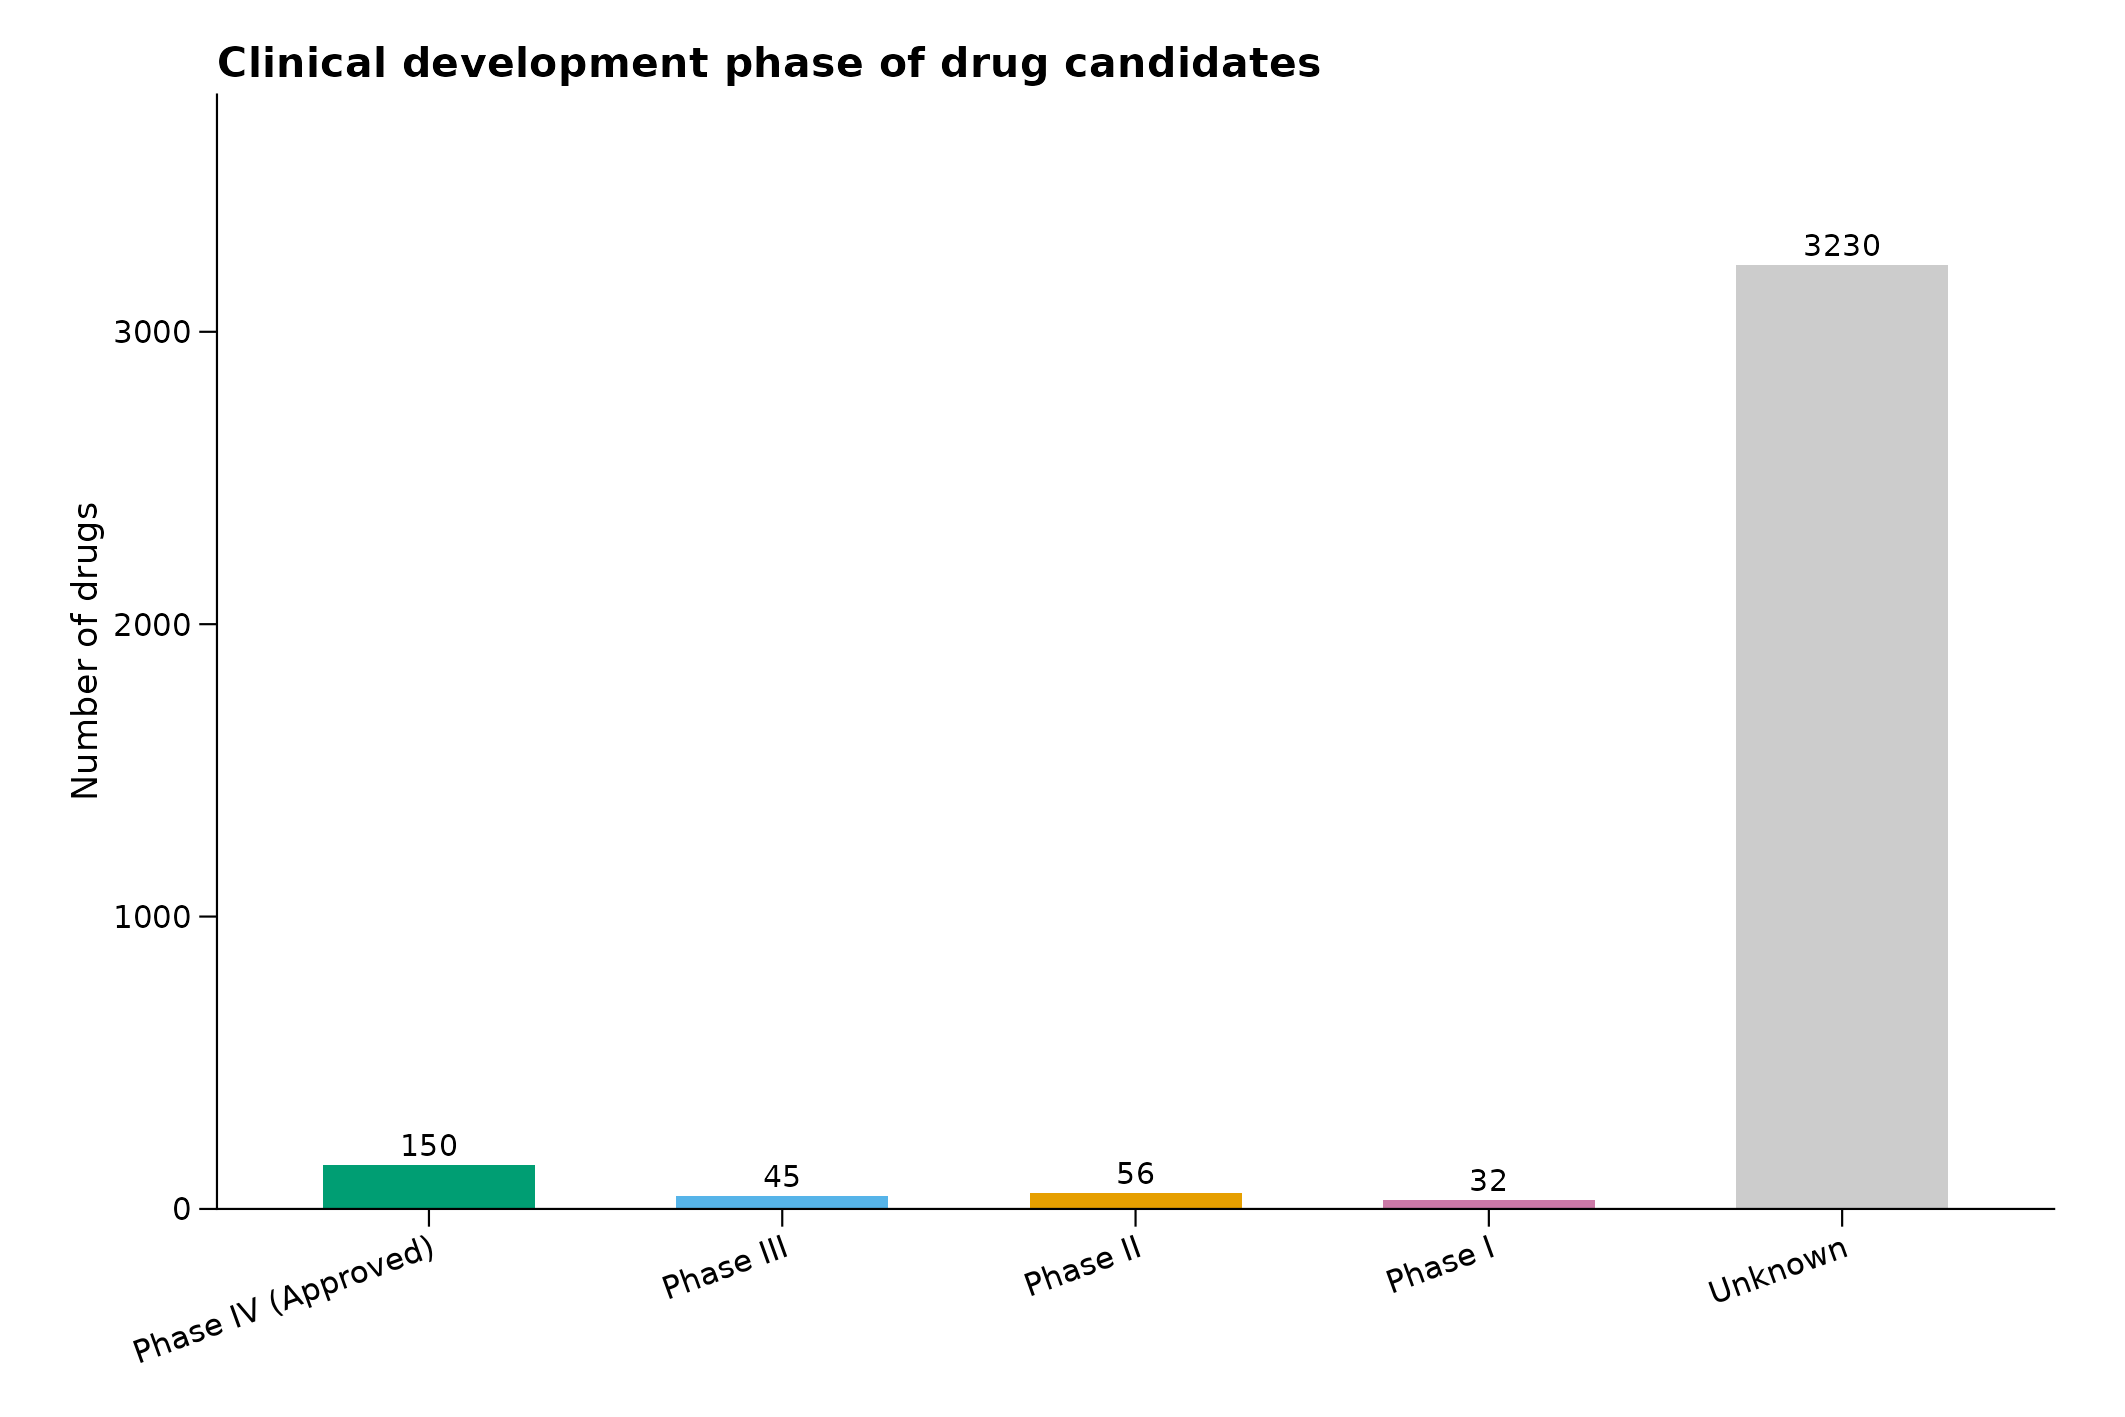
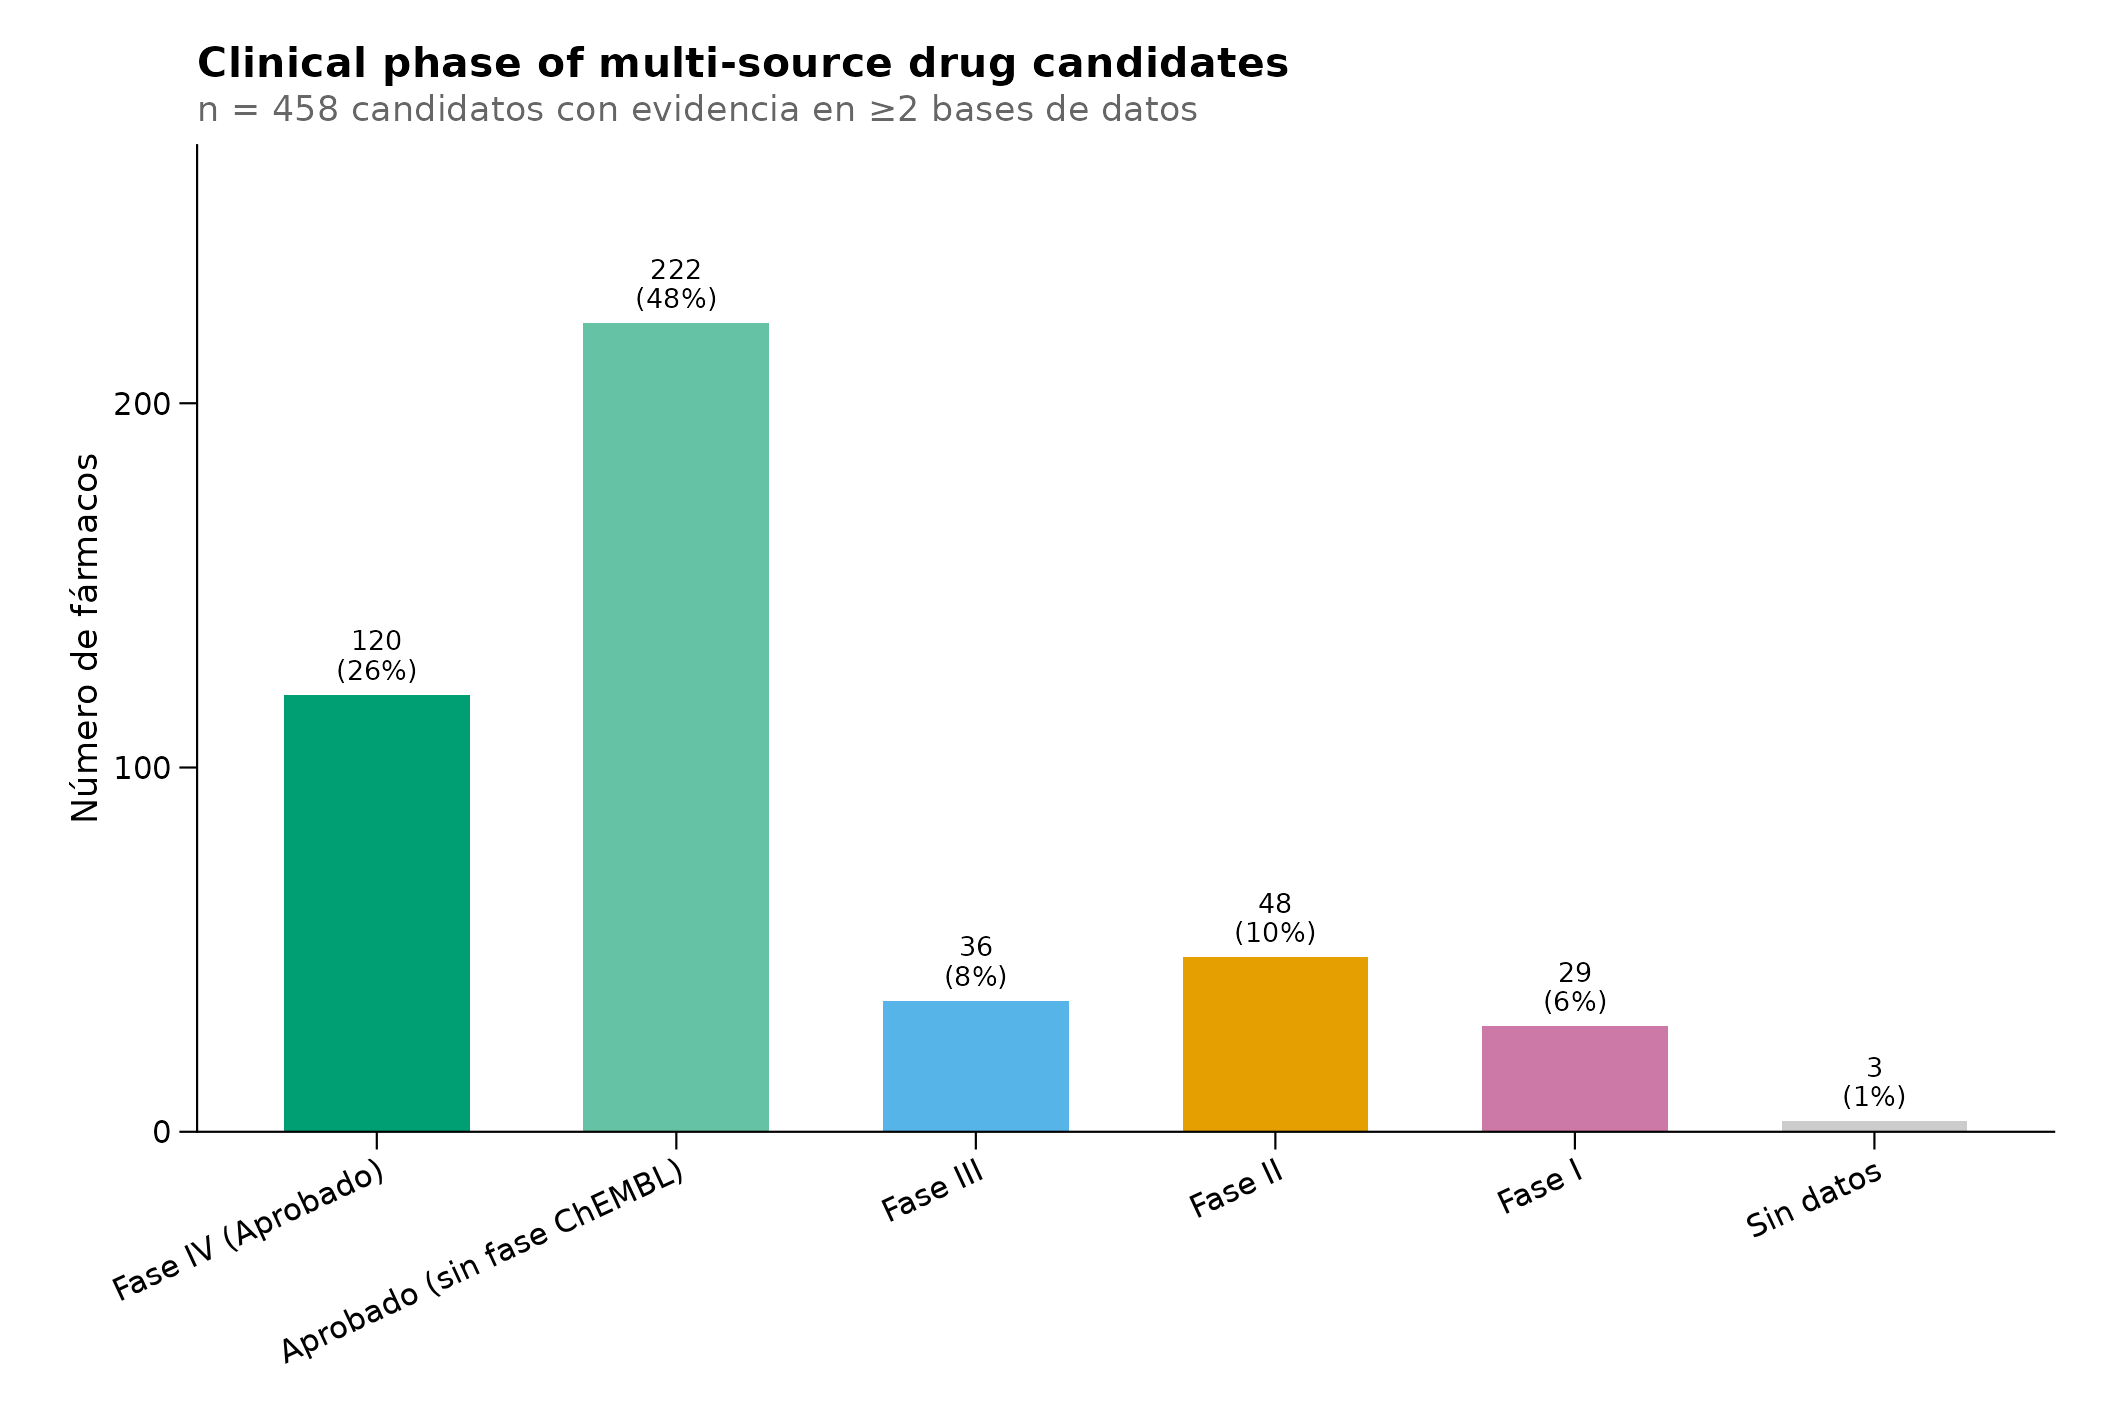
Fix C2: fase clínica de candidatos multi-fuente (no drug_summary completo)
Problema: C2 usaba drug_summary (3,513 fármacos dominados por DGIdb-only)
→ 91.9% "Unknown" porque DGIdb no reporta max_phase sistemáticamente.

Solución:
- C2 ahora usa multi_source_candidates (n=458, presentes en >=2 fuentes)
- Combina max_phase (ChEMBL) con is_approved (flag DGIdb)
- Resultado correcto: 75% aprobados (342/458)
  · 120 Fase IV confirmada ChEMBL
  · 222 aprobados sin fase ChEMBL (DGIdb+L2S2)
- Paleta PHASE_COLS actualizada con nueva categoría "Aprobado (sin fase ChEMBL)"
- multi_src cargado en bloque principal de datos

Archivos actualizados:
- scripts/17_pub_figures.R
- results/figures/pub/C2_drug_phase_dist.pdf/png
- results/figures/pub/main/OE1_FigB_drug_phase_dist.pdf/png
- docs/FIGURES_PLAN.md (sección Correcciones aplicadas)
- docs/HNSCC_DrugRepurposing_Figuras.docx (caption Fig 6 actualizado)

diff --git a/docs/FIGURES_PLAN.md b/docs/FIGURES_PLAN.md
@@ -116,7 +116,7 @@ específicos. Responde: ¿Cuál es el estado del proteoma en HNSCC comparado con
 | ID propuesto | Archivo actual | Descripción | Notas / Mejoras |
 |---|---|---|---|
 | `OE1_FigA` | `pub/C1_drug_sources_bar.pdf` | Candidatos identificados por cada fuente (DGIdb, ChEMBL, OpenTargets, L2S2). Muestra la estrategia multi-fuente. | Agregar encima de cada barra el n° de genes consultados. Unificar paleta con OE1_FigB. |
-| `OE1_FigB` | `pub/C2_drug_phase_dist.pdf` | Distribución de fases clínicas. Muestra que la mayoría de candidatos son fármacos aprobados (Fase IV). | Separar o colorear por fuente de datos si es posible. |
+| `OE1_FigB` | `pub/C2_drug_phase_dist.pdf` | Distribución de fases clínicas de los **candidatos multi-fuente** (n=458). 75% son fármacos aprobados: 120 con Fase IV confirmada por ChEMBL + 222 aprobados sin fase ChEMBL (solo DGIdb/L2S2). **Fix 2026-04-11:** figura corregida para usar `multi_src` en lugar de `drug_sum` (que incluía 3,513 candidatos DGIdb-only con 91.9% NA de fase — artefacto de que DGIdb no reporta fase sistemáticamente). | OK post-fix. |
 | `OE1_FigC` | **CREAR** | UpSet plot o diagrama de overlap entre las 4 fuentes de datos. Muestra qué candidatos tienen respaldo de múltiples fuentes (evidencia convergente). Candidatos en múltiples fuentes → mayor confianza. | Usar `UpSetR` en R. Datos disponibles en `results/tables/` (script 08). **Esta figura falta y es importante para OE1.** |
 
 ---
@@ -157,6 +157,14 @@ específicos. Responde: ¿Cuál es el estado del proteoma en HNSCC comparado con
 
 - **OE2:** Priorizar candidatos por conectividad, rutas y redes → figuras D1, D2, D3 + red STRING
 - **OE3:** Contrastar clínica y bibliográficamente → figura E1, bump chart, stability bar
+
+---
+
+## Correcciones aplicadas
+
+| Fecha | Figura | Problema | Solución |
+|---|---|---|---|
+| 2026-04-11 | `OE1_FigB` (C2) | Usaba `drug_summary` (3,513 fármacos) dominado por candidatos DGIdb-only sin fase clínica → 91.9% "Unknown". Artefacto: DGIdb no reporta max_phase sistemáticamente. | Cambiado a `multi_source_candidates` (n=458). Se combina `max_phase` (ChEMBL) con `is_approved` (flag DGIdb) para recuperar 222 aprobados sin fase ChEMBL. Resultado real: 75% aprobados. |
 
 ---
 